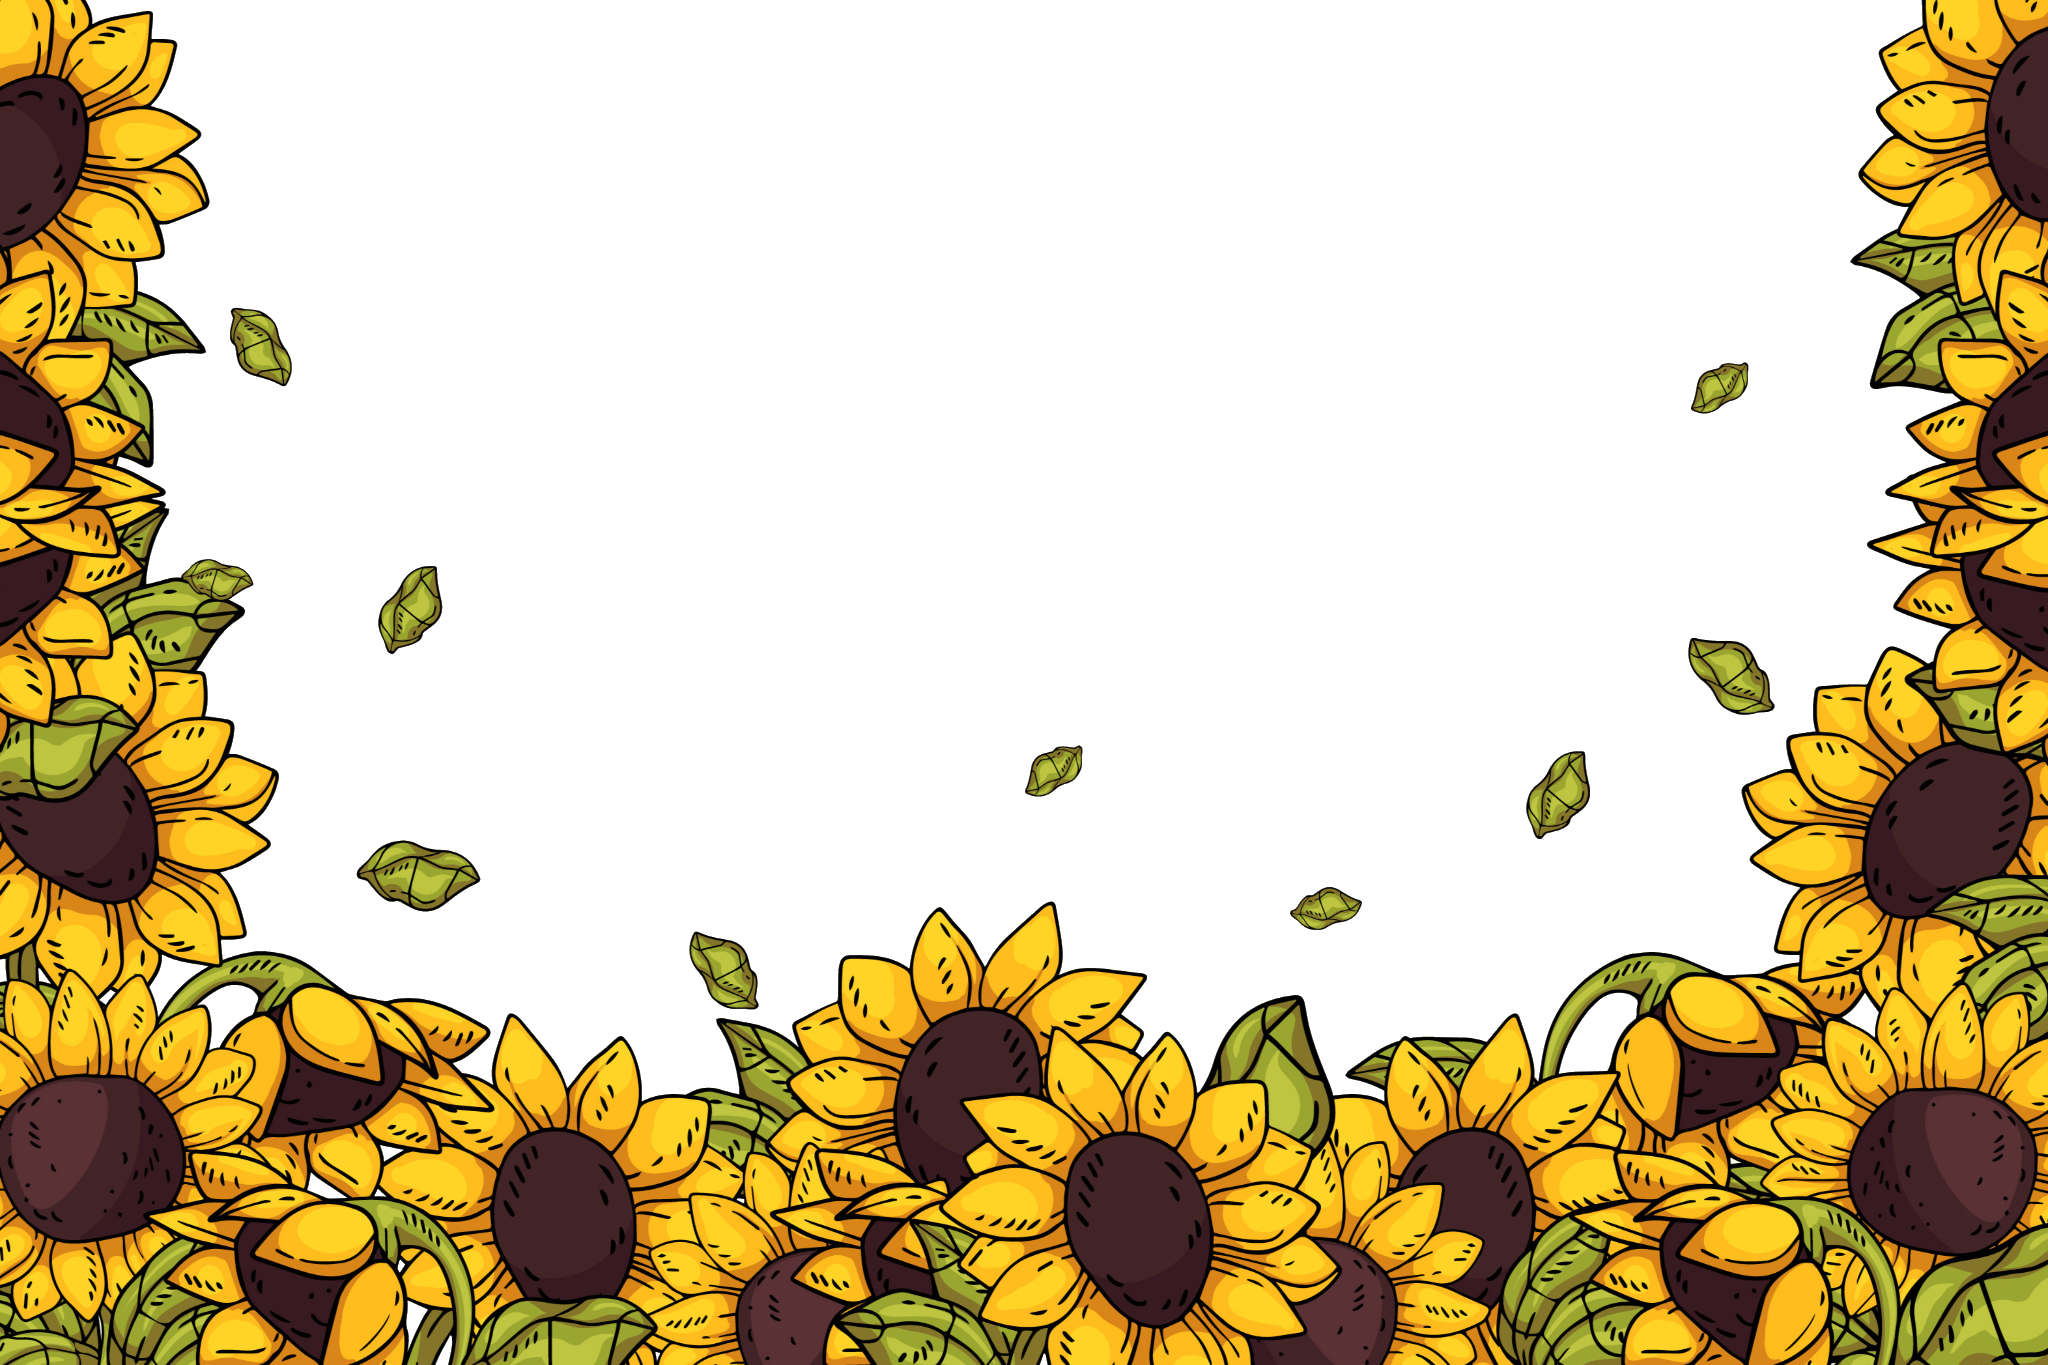
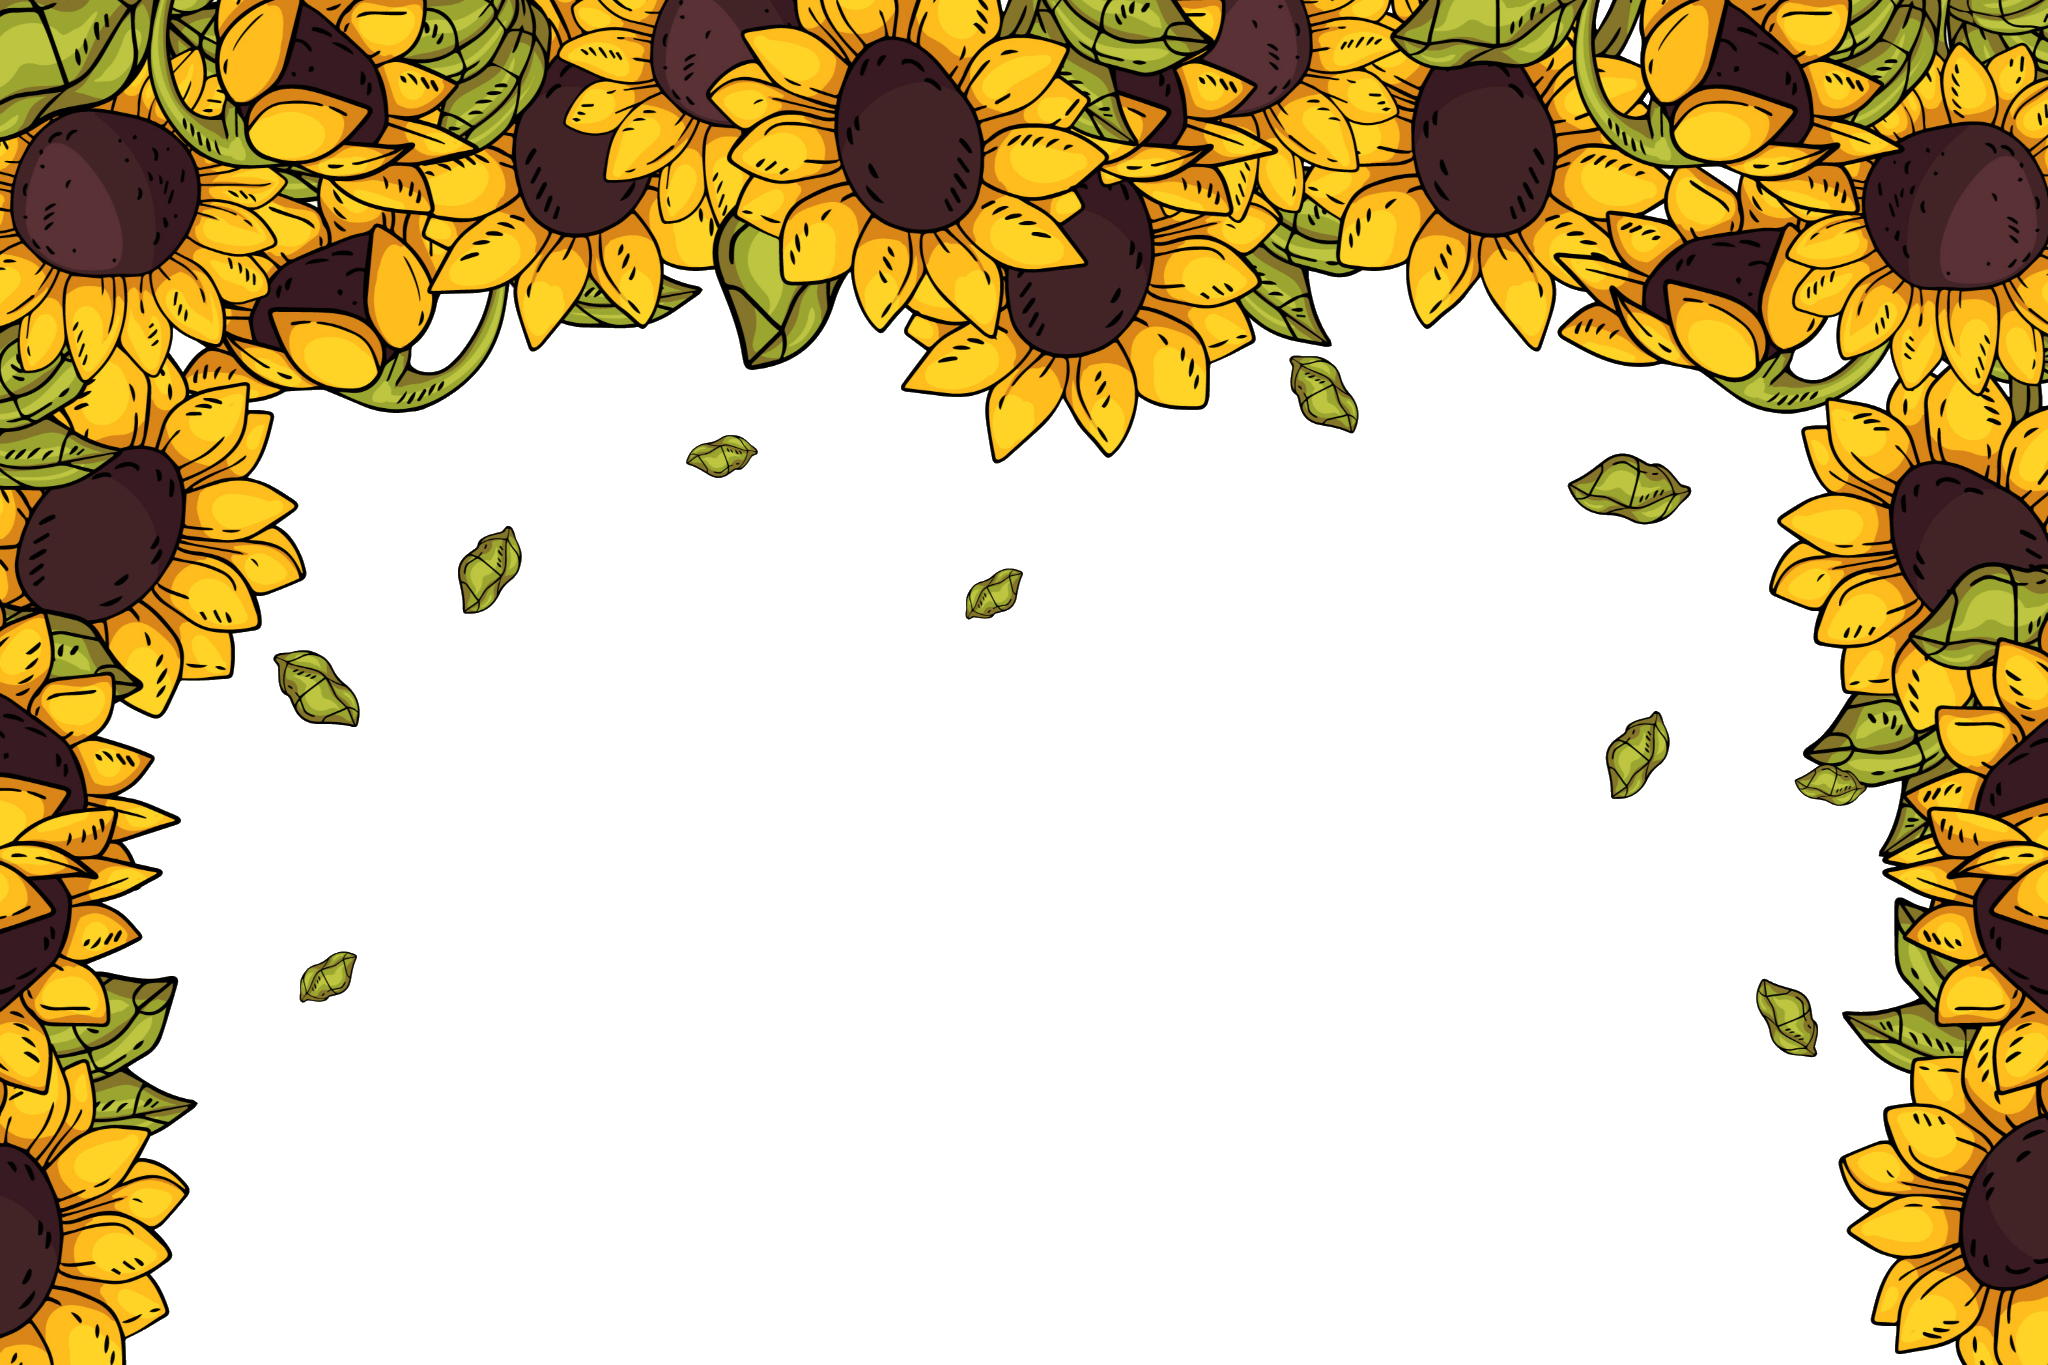
Code Clean Up P96

diff --git a/src/app/styles/august.scss b/src/app/styles/august.scss
@@ -4,32 +4,28 @@
 	justify-content: space-between;
 	align-items: center;
 
-	.petal {
-		transition: transform 0.2s ease-in-out, fill 0.3s ease;
-		cursor: pointer;
-	}
-	.petal:hover {
-		filter: brightness(1.1);
-	}
-
-	.day-label {
-		fill: #3e2723;
-		font-size: 5px;
-		font-family: "Arial", sans-serif;
-		font-weight: bold;
-		dominant-baseline: middle;
-		pointer-events: none;
-	}
-
 	svg {
 		width: 33rem;
-		height: 33rem;
-		margin-top: 24rem;
-		margin-right: -5.5rem;
+		margin: -14rem -6rem 0 0;
 	}
 
 	.legend-container {
-		margin-top: -30rem;
-		margin-left: 1rem;
+		margin: 30rem 0 0 1rem;
+	}
+
+	.label {
+		pointer-events: none;
+		text-anchor: middle;
+		font-weight: 900;
+		font-size: 8px;
+		font-family: "Arial", sans-serif;
+		dominant-baseline: middle;
+	}
+
+	.circle-2 {
+		fill: #422426;
+		stroke: #232323;
+		stroke-width: 2;
+		stroke-dasharray: 1 3;
 	}
 }

diff --git a/src/app/mood-view/mood-view.html b/src/app/mood-view/mood-view.html
@@ -261,14 +261,13 @@
 				<path d="M125 105 C132 85, 130 50, 125 45 C120 50, 118 85, 125 105 Z" />
 			</g>
 			@let textFill = ['#F57C00', '#BF360C'].includes(day.color) ? '#FFF59D' : '#3E2723';
-			<text x="125" y="48" text-anchor="middle" font-size="8" font-weight="900" [attr.fill]="textFill"
-				[attr.transform]="day.textTransform" style="pointer-events: none; font-family: sans-serif;">
+			<text x="125" y="48" [attr.fill]="textFill" class="label" [attr.transform]="day.textTransform">
 				{{ day.label }}
 			</text>
 		</g>
 		}
 		<circle cx="125" cy="125" r="40" fill="#3E2723" />
-		<circle cx="125" cy="125" r="35" fill="#422426" stroke="#232323" stroke-width="2" stroke-dasharray="1 3" />
+		<circle cx="125" cy="125" r="35" class="circle-2" />
 		<circle cx="125" cy="125" r="32" fill="none" stroke="#232323" stroke-opacity="0.2" stroke-width="1" />
 	</svg>
 </ng-template>
